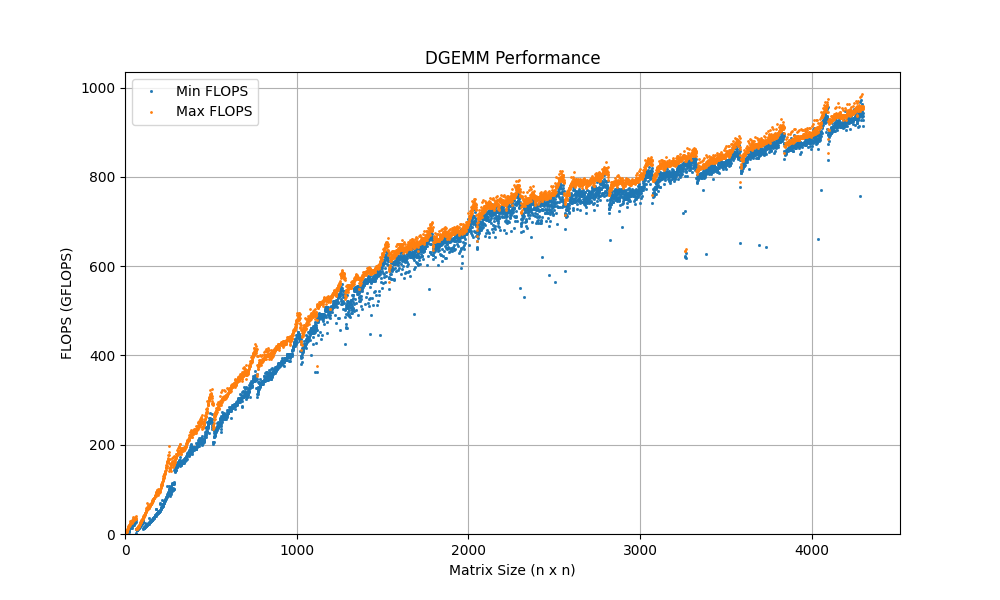
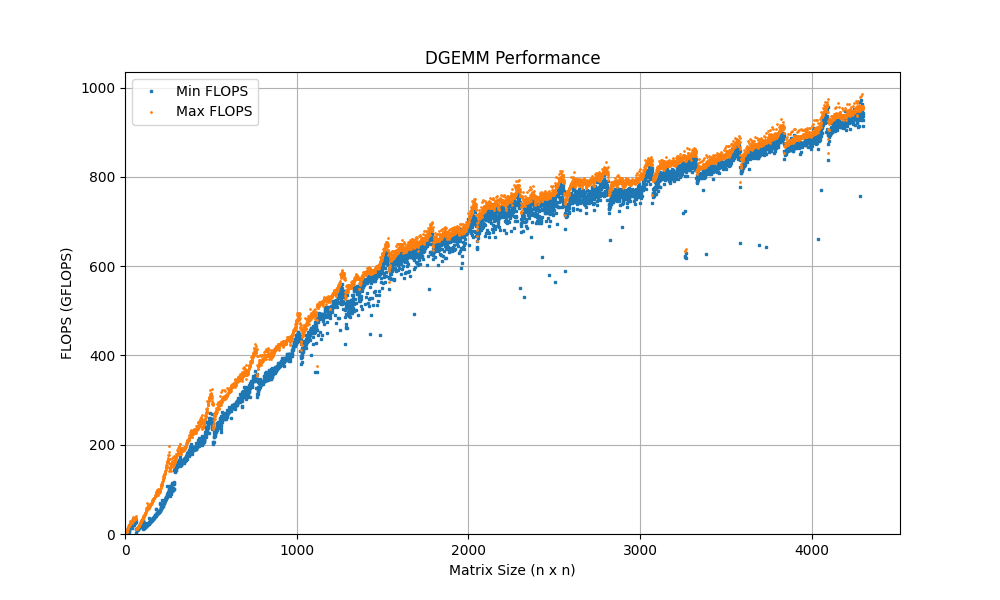
.

diff --git a/dgemm_benchmark/dgemm_benchmark_plot.py b/dgemm_benchmark/dgemm_benchmark_plot.py
@@ -13,7 +13,7 @@ df["minflops"] /= 1000
 
 # プロットの作成
 plt.figure(figsize=(10, 6))
-plt.plot(df["n"], df["minflops"], label="Min FLOPS", marker='s', markersize=1, linestyle='None')
+plt.plot(df["n"], df["minflops"], label="Min FLOPS", marker='s', markersize=2, linestyle='None')
 plt.plot(df["n"], df["maxflops"], label="Max FLOPS", marker='o', markersize=1, linestyle='None')
 plt.xlabel("Matrix Size (n x n)")
 plt.ylabel("FLOPS (GFLOPS)")
